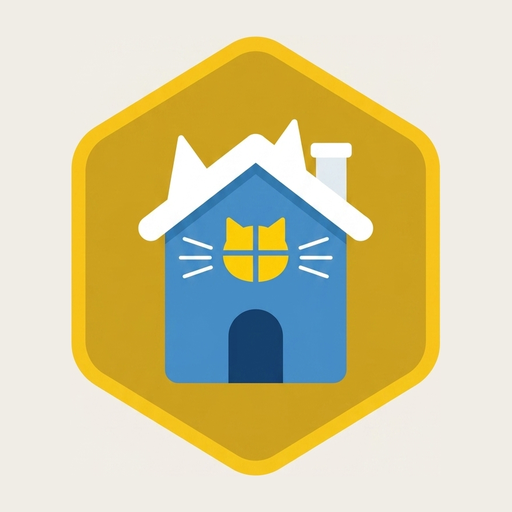
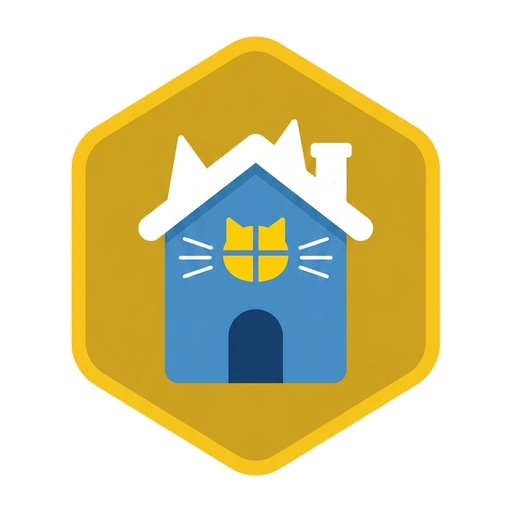
修正icon背景不透明造成的錯位光暈
裁切時誤把取樣到的米色背景一併填進畫布，導致header上的圖示
外圍多一圈跟藍色漸層背景不搭的方形色塊，看起來像沒對齊。
改用alpha遮罩只保留六角形本體透明背景，重新輸出並跳版號。

Claude-Session: https://claude.ai/code/session_01KvojU8NcNtaF6N8994aTKP

diff --git a/index.html b/index.html
@@ -13,8 +13,8 @@
 <meta name="twitter:description" content="語塊學西語，用真實情境語塊拆解西班牙文，零負擔、隨手練">
 <link rel="stylesheet" href="style.css?v=20260811a1">
 <link rel="manifest" href="manifest.json?v=20260713a2">
-<link rel="icon" href="icon.png?v=20260811a2" type="image/png">
-<link rel="apple-touch-icon" href="icon.png?v=20260811a2">
+<link rel="icon" href="icon.png?v=20260811a3" type="image/png">
+<link rel="apple-touch-icon" href="icon.png?v=20260811a3">
 <meta name="theme-color" content="#9FD0DE">
 </head>
 <body>
@@ -23,7 +23,7 @@
 
   <!-- HEADER -->
   <div class="header">
-    <div class="header-title"><img class="header-title-icon" src="img/header_icon.png?v=20260811a2" alt="" width="28" height="28">Mi Pequeña Casa</div>
+    <div class="header-title"><img class="header-title-icon" src="img/header_icon.png?v=20260811a3" alt="" width="28" height="28">Mi Pequeña Casa</div>
     <div class="header-subtitle">一座收藏拉美生活語塊的小小西語莊園</div>
     <div class="header-entry-row">
       <button class="header-entry-btn" onclick="openLevelNavDirect()" title="不是新手？直接挑一條適合的路線">🧭 探索路線</button>
